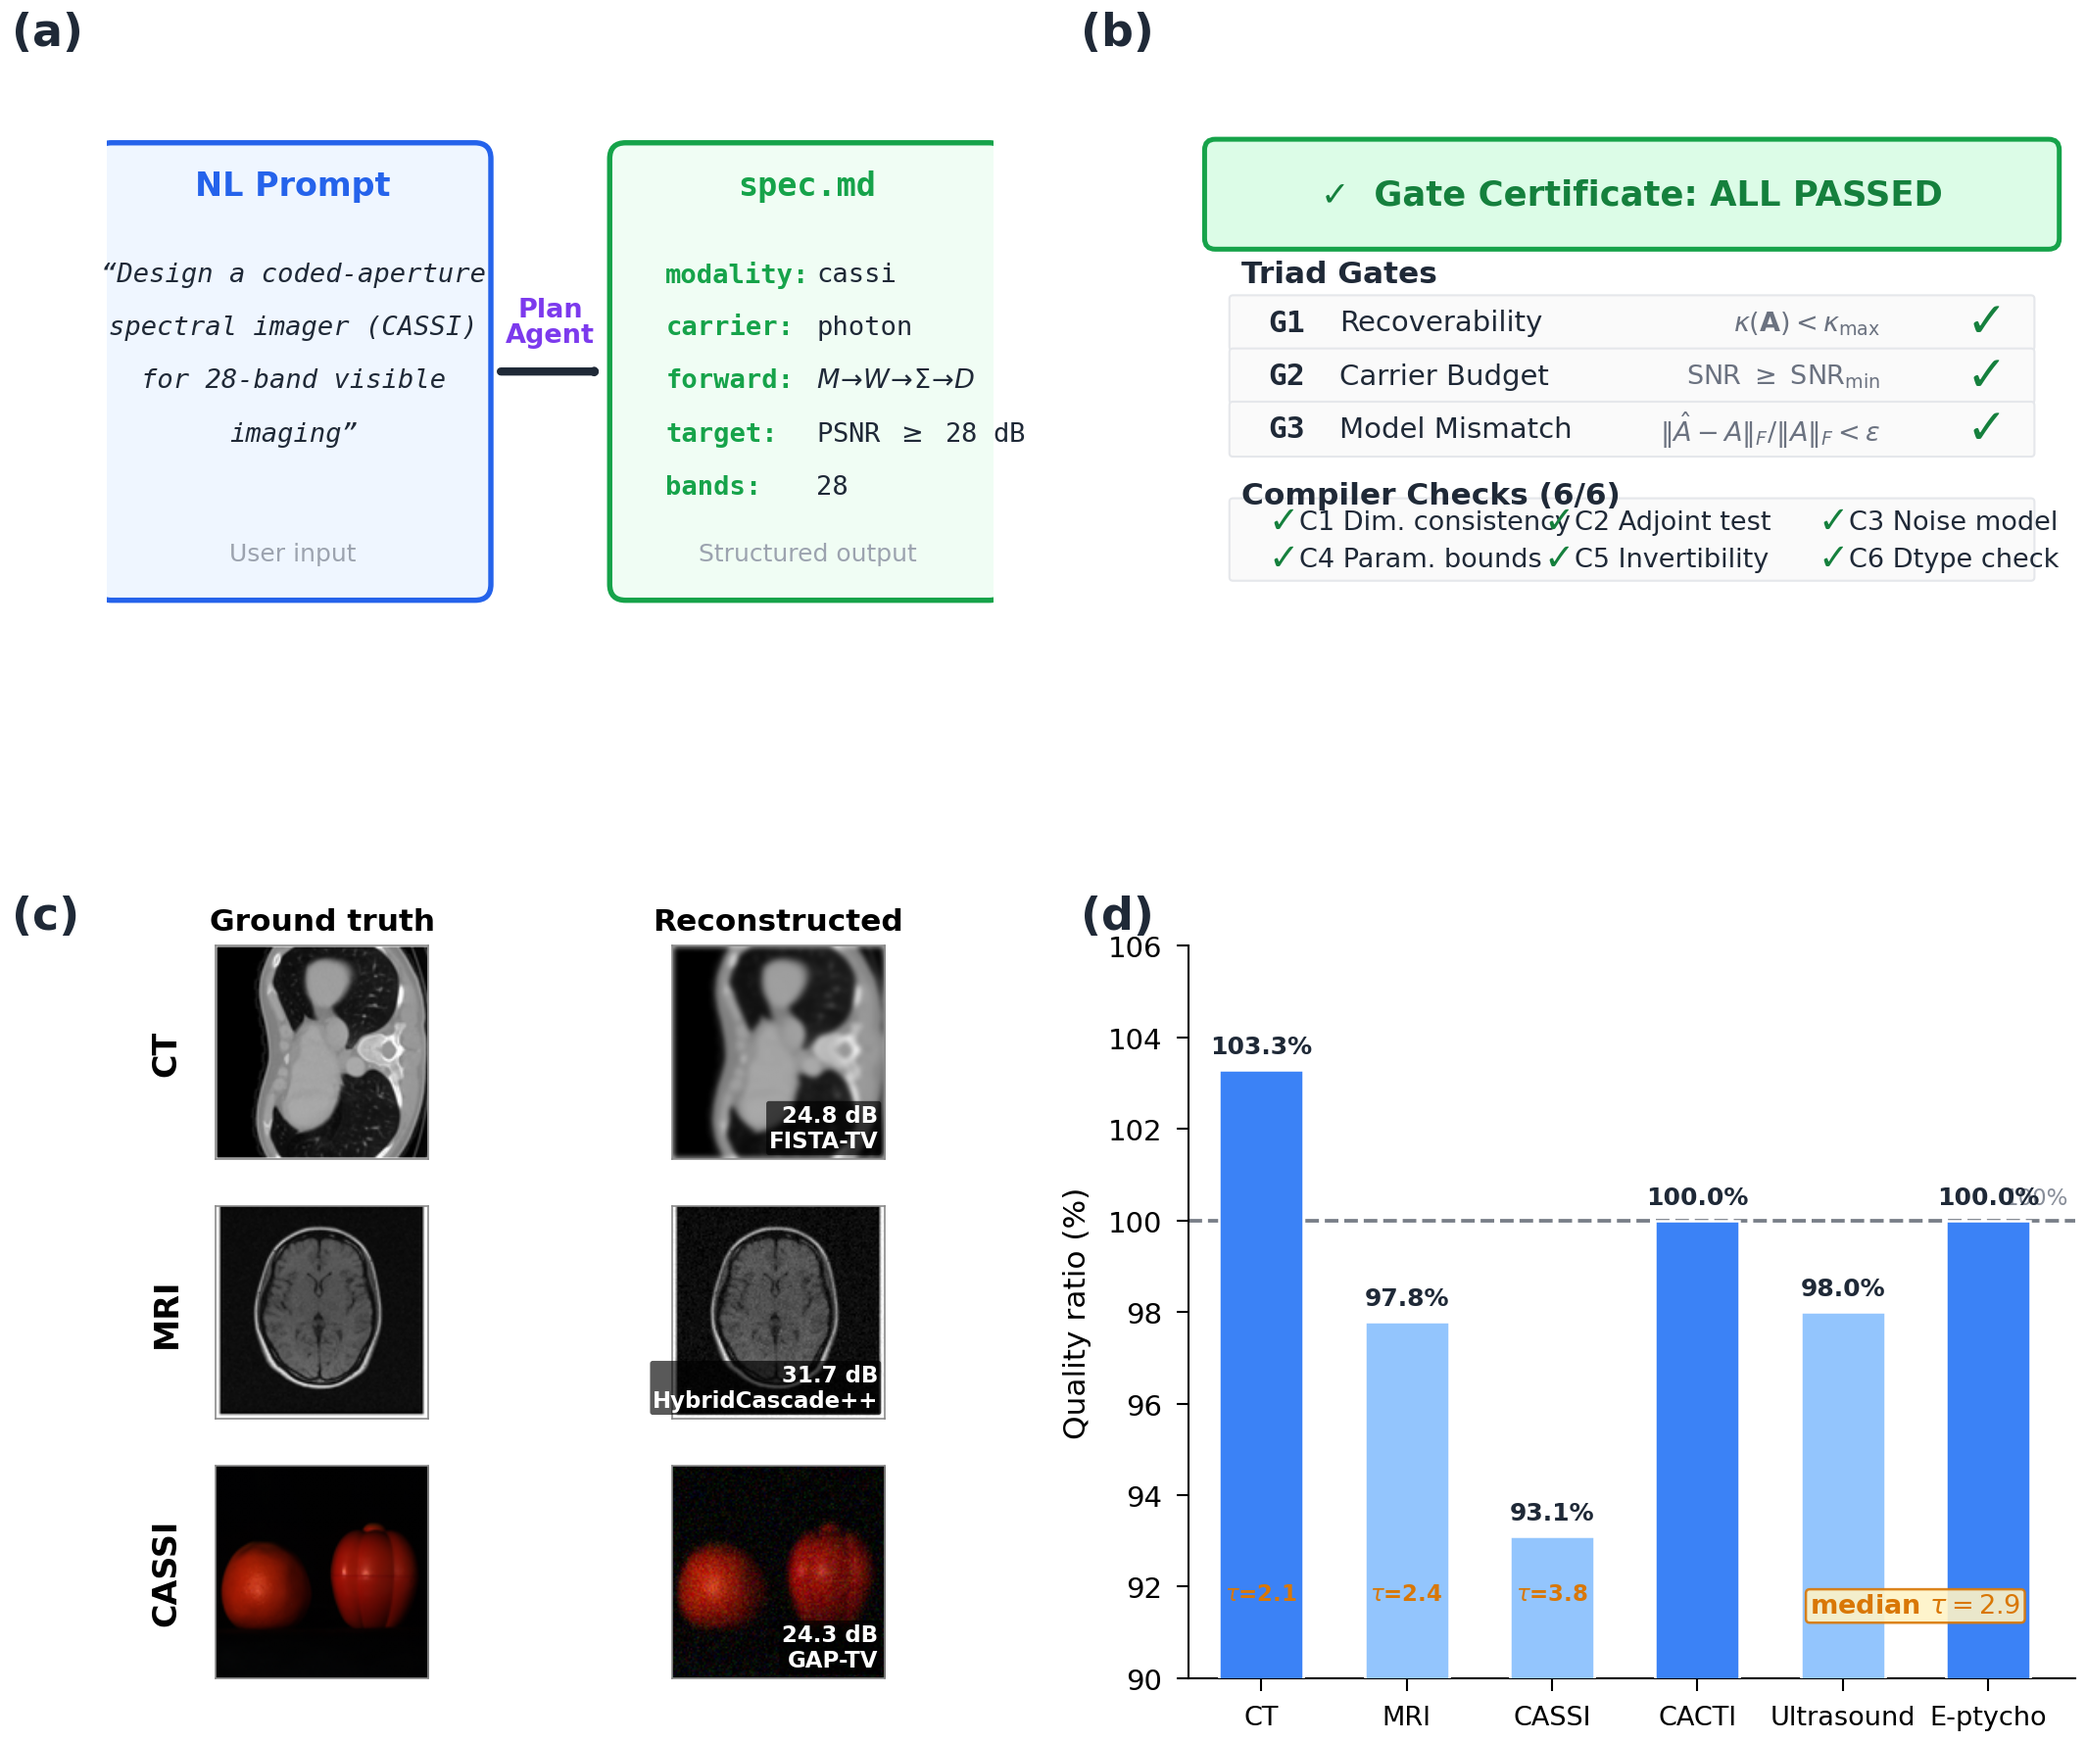
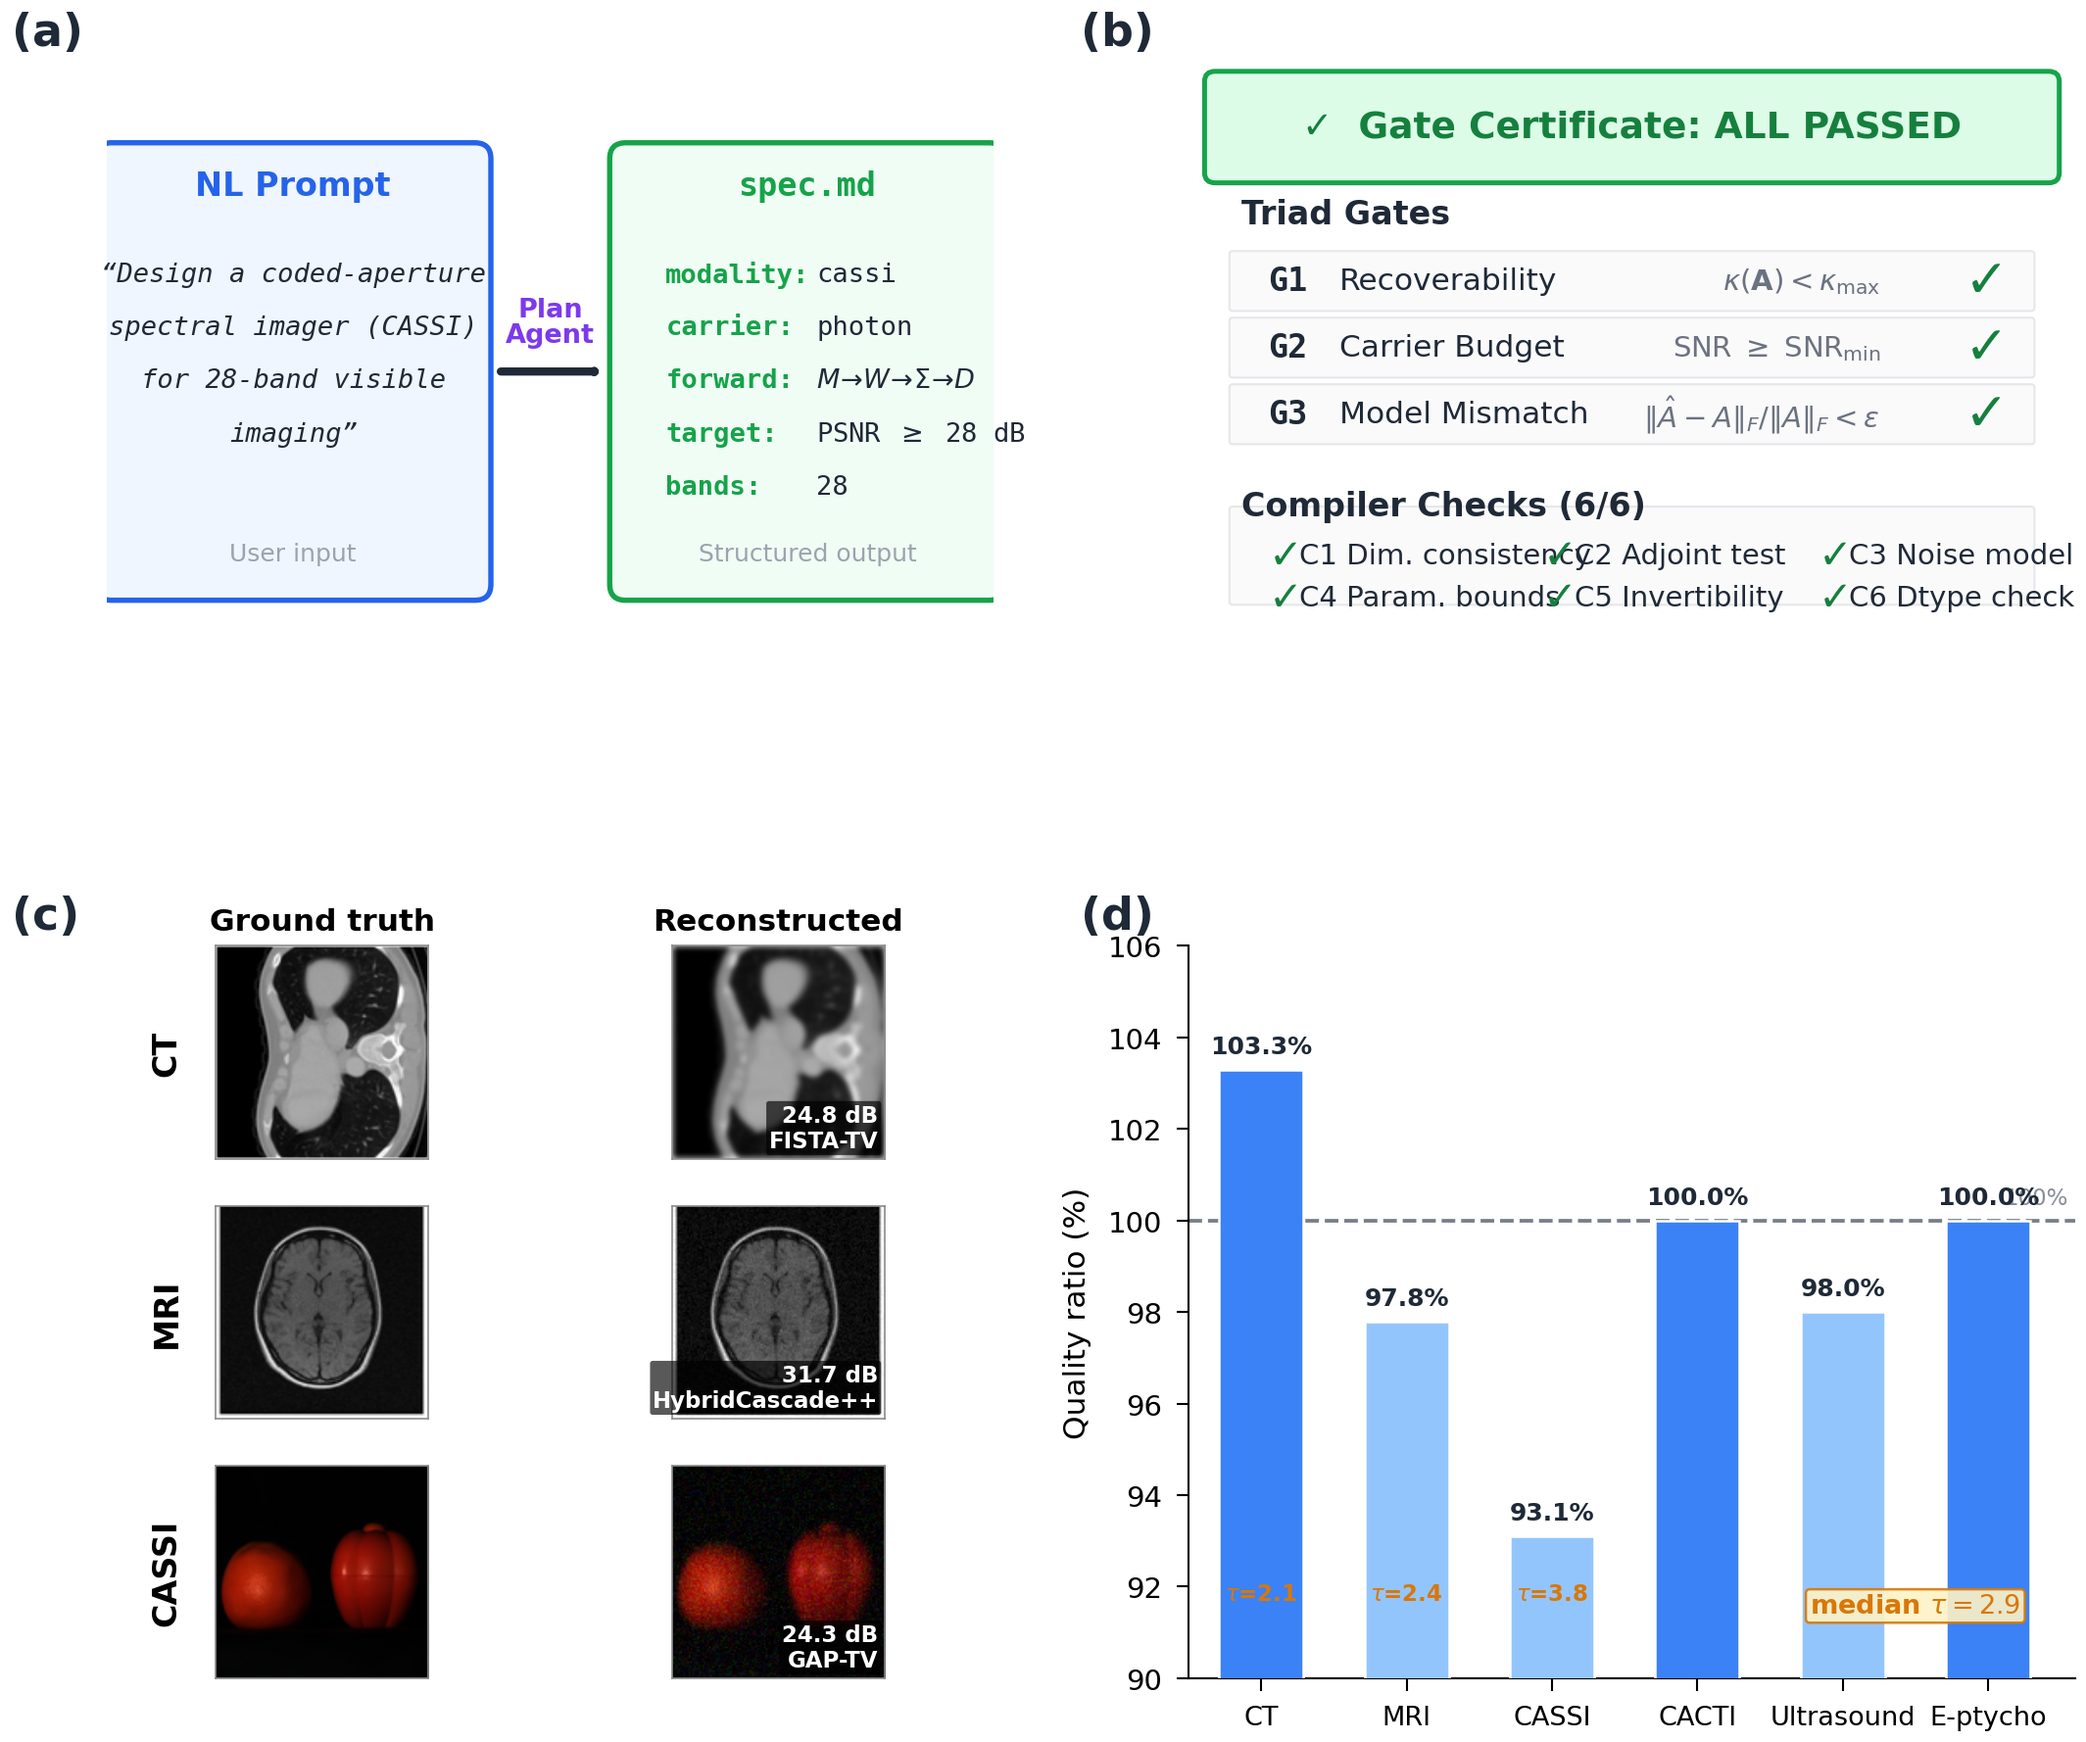
fix(paper): increase spacing in Figure 4 panel (b) gate certificate

Changed region(s): [[0.558, 0.0309, 0.992, 0.3712], [0.93, 0.1856, 0.961, 0.2475]]

diff --git a/papers/system_design/generate_figure4.py b/papers/system_design/generate_figure4.py
@@ -149,24 +149,23 @@ def draw_panel_a(ax):
 def draw_panel_b(ax):
     """Draw gate certificate checklist."""
     ax.set_xlim(0, 10)
-    ax.set_ylim(0, 6)
-    ax.set_aspect("equal")
+    ax.set_ylim(0, 8)
     ax.axis("off")
 
     # Title banner
     title_box = FancyBboxPatch(
-        (0.3, 4.7), 9.4, 1.0,
+        (0.3, 6.6), 9.4, 1.1,
         boxstyle="round,pad=0.12",
         facecolor=C_GREEN_LIGHT, edgecolor=C_GREEN,
         linewidth=1.2, zorder=2,
     )
     ax.add_patch(title_box)
-    ax.text(5.0, 5.2, "\u2713  Gate Certificate: ALL PASSED",
-            fontsize=8.5, fontweight="bold", color=C_GREEN_CHECK,
+    ax.text(5.0, 7.15, "\u2713  Gate Certificate: ALL PASSED",
+            fontsize=9, fontweight="bold", color=C_GREEN_CHECK,
             ha="center", va="center", zorder=3)
 
     # --- Triad Gates ---
-    ax.text(0.6, 4.3, "Triad Gates", fontsize=7.5, fontweight="bold",
+    ax.text(0.6, 6.1, "Triad Gates", fontsize=8, fontweight="bold",
             color=C_DARK, ha="left", va="center")
 
     triad_gates = [
@@ -175,11 +174,11 @@ def draw_panel_b(ax):
         ("G3", "Model Mismatch", r"$\|\hat{A}-A\|_F / \|A\|_F < \epsilon$"),
     ]
 
-    y = 3.75
+    y = 5.3
     for gid, name, formula in triad_gates:
         # Row background
         row_bg = FancyBboxPatch(
-            (0.5, y - 0.27), 9.0, 0.54,
+            (0.5, y - 0.32), 9.0, 0.64,
             boxstyle="round,pad=0.04",
             facecolor="#FAFAFA", edgecolor="#E5E7EB",
             linewidth=0.5, zorder=1,
@@ -187,23 +186,23 @@ def draw_panel_b(ax):
         ax.add_patch(row_bg)
 
         # Gate ID
-        ax.text(0.9, y, gid, fontsize=7.5, fontweight="bold",
+        ax.text(0.9, y, gid, fontsize=8, fontweight="bold",
                 color=C_DARK, ha="left", va="center", zorder=3,
                 family="monospace")
         # Gate name
-        ax.text(1.7, y, name, fontsize=7, color=C_DARK,
+        ax.text(1.7, y, name, fontsize=7.5, color=C_DARK,
                 ha="left", va="center", zorder=3)
         # Formula (right-aligned)
-        ax.text(7.8, y, formula, fontsize=6.5, color=C_GRAY,
+        ax.text(7.8, y, formula, fontsize=7, color=C_GRAY,
                 ha="right", va="center", zorder=3)
         # Checkmark
-        ax.text(9.0, y, "\u2713", fontsize=12, fontweight="bold",
+        ax.text(9.0, y, "\u2713", fontsize=13, fontweight="bold",
                 color=C_GREEN_CHECK, ha="center", va="center", zorder=3)
-        y -= 0.6
+        y -= 0.8
 
     # --- Compiler Gates ---
-    y -= 0.15
-    ax.text(0.6, y, "Compiler Checks (6/6)", fontsize=7.5, fontweight="bold",
+    y -= 0.3
+    ax.text(0.6, y, "Compiler Checks (6/6)", fontsize=8, fontweight="bold",
             color=C_DARK, ha="left", va="center")
 
     compiler_gates = [
@@ -216,9 +215,9 @@ def draw_panel_b(ax):
     ]
 
     # Draw in a 3x2 grid
-    y -= 0.5
+    y -= 0.6
     row_bg = FancyBboxPatch(
-        (0.5, y - 0.42), 9.0, 0.85,
+        (0.5, y - 0.55), 9.0, 1.1,
         boxstyle="round,pad=0.04",
         facecolor="#FAFAFA", edgecolor="#E5E7EB",
         linewidth=0.5, zorder=1,
@@ -229,10 +228,10 @@ def draw_panel_b(ax):
         col = i % 3
         row = i // 3
         x_pos = 0.9 + col * 3.1
-        y_pos = y + 0.2 - row * 0.42
-        ax.text(x_pos, y_pos, "\u2713", fontsize=9, fontweight="bold",
+        y_pos = y - row * 0.5
+        ax.text(x_pos, y_pos, "\u2713", fontsize=10, fontweight="bold",
                 color=C_GREEN_CHECK, ha="left", va="center", zorder=3)
-        ax.text(x_pos + 0.35, y_pos, f"{cid} {cname}", fontsize=6.5,
+        ax.text(x_pos + 0.35, y_pos, f"{cid} {cname}", fontsize=7,
                 color=C_DARK, ha="left", va="center", zorder=3)
 
 
